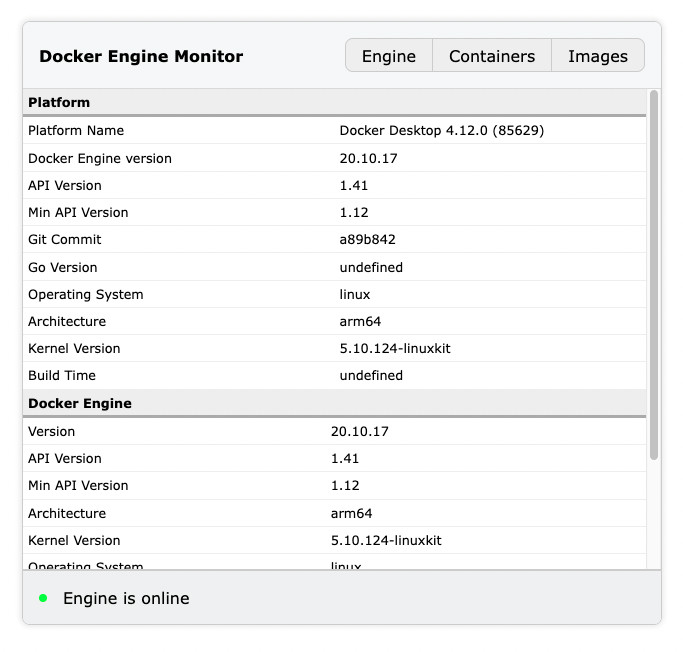
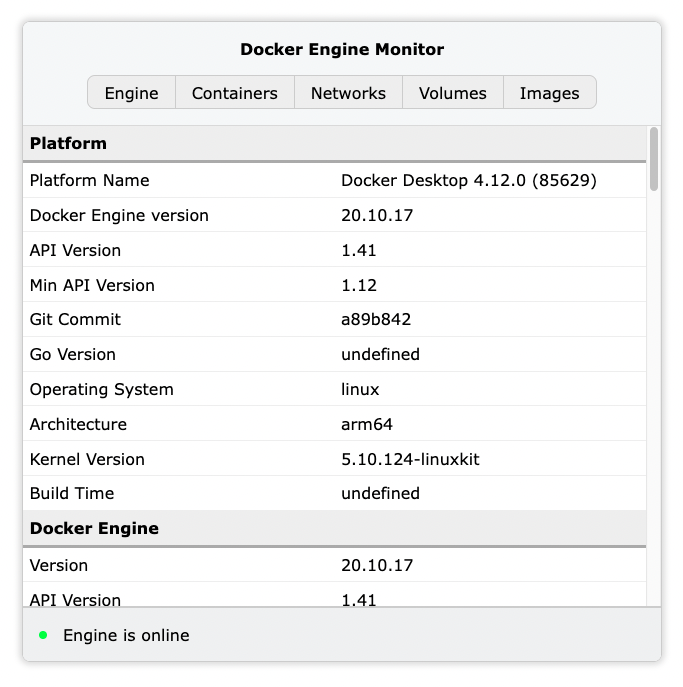
Add more info

Changed region(s): [[0.0307, 0.0307, 0.9839, 0.5828], [0.0307, 0.2761, 0.9839, 0.9816]]

diff --git a/src/components/Body.js b/src/components/Body.js
@@ -37,25 +37,126 @@ function Body() {
                 }
             } />
 
-        <LiveTable title="Docker Engine" ms={5 * 1000} check={
+            <LiveTable title="Docker Engine" ms={5 * 1000} check={
                 function(callback) {
-                    docker.version(
-                        result => 
-                            callback([
-                                [ 'Version'          , result['Components'][0]['Version'] ],
-                                [ 'API Version'      , result['Components'][0]['Details']['ApiVersion'] ],
-                                [ 'Min API Version'  , result['Components'][0]['Details']['MinAPIVersion'] ],
-                                [ 'Architecture'     , result['Components'][0]['Details']['Arch'] ],
-                                [ 'Kernel Version'   , result['Components'][0]['Details']['KernelVersion'] ],
-                                [ 'Operating System' , result['Components'][0]['Details']['Os'] ],
-                                [ 'Build Time'       , result['Components'][0]['Details']['BuildTime'] ],
-                                [ 'Experimental'     , result['Components'][0]['Details']['Experimental'] ],
-                                [ 'Git Commit'       , result['Components'][0]['Details']['GitCommit'] ],
-                                [ 'Go Version'       , result['Components'][0]['Details']['GoVersion'] ],
-                            ])
+                    docker.version(result => 
+                        callback([
+                            [ 'Version'          , result['Components'][0]['Version'] ],
+                            [ 'API Version'      , result['Components'][0]['Details']['ApiVersion'] ],
+                            [ 'Min API Version'  , result['Components'][0]['Details']['MinAPIVersion'] ],
+                            [ 'Architecture'     , result['Components'][0]['Details']['Arch'] ],
+                            [ 'Kernel Version'   , result['Components'][0]['Details']['KernelVersion'] ],
+                            [ 'Operating System' , result['Components'][0]['Details']['Os'] ],
+                            [ 'Build Time'       , result['Components'][0]['Details']['BuildTime'] ],
+                            [ 'Experimental'     , result['Components'][0]['Details']['Experimental'] ],
+                            [ 'Git Commit'       , result['Components'][0]['Details']['GitCommit'] ],
+                            [ 'Go Version'       , result['Components'][0]['Details']['GoVersion'] ],
+                        ])
                     );
                 }
             } />
+
+            <LiveTable title="containerd" ms={5 * 1000} check={
+                function(callback) {
+                    docker.version(result => 
+                        callback([
+                            [ 'Version'          , result['Components'][1]['Version'] ],
+                            [ 'Git Commit'       , result['Components'][1]['Details']['GitCommit'] ],
+                        ])
+                    );
+                }
+            } />
+
+            <LiveTable title="runc" ms={5 * 1000} check={
+                function(callback) {
+                    docker.version(result => 
+                        callback([
+                            [ 'Version'          , result['Components'][2]['Version'] ],
+                            [ 'Git Commit'       , result['Components'][2]['Details']['GitCommit'] ],
+                        ])
+                    );
+                }
+            } />
+
+            <LiveTable title="docker-init" ms={5 * 1000} check={
+                function(callback) {
+                    docker.version(result => 
+                        callback([
+                            [ 'Version'          , result['Components'][3]['Version'] ],
+                            [ 'Git Commit'       , result['Components'][3]['Details']['GitCommit'] ],
+                        ])
+                    );
+                }
+            } />
+            
+            <LiveTable title="Info" ms={5 * 1000} check={
+                function(callback) {
+                    docker.info(result => 
+                        callback([
+                            [ 'Driver Status'          , '►' ],
+                            [ 'Plugins'                , '►' ],
+                            [ 'Registry Config'        , '►' ],
+                            [ 'Runtimes'               , '►' ],
+                            [ 'Swarm'                  , '►' ],
+                            [ 'Containerd Commit'      , '►' ],
+                            [ 'Runc Commit'            , '►' ],
+                            [ 'Init Commit'            , '►' ],
+                            [ 'Security Options'       , '►' ],
+                            [ 'Labels'                 , '►' ],
+                            [ 'ID'                     , result['ID'] ],
+                            [ 'Warnings'               , result['Warnings'] ],
+                            [ 'Containers'             , result['Containers'] ],
+                            [ 'Containters Running'    , result['ContainersRunning'] ],
+                            [ 'Containers Paused'      , result['ContainersPaused'] ],
+                            [ 'Containers Stopped'     , result['ContainersStopped'] ]
+                            [ 'Images'                 , result['Images'] ],
+                            [ 'Driver'                 , result['Driver'] ],
+                            [ 'Memory Limit'           , result['MemoryLimit'] ],
+                            [ 'Swap Limit'             , result['SwapLimit'] ],
+                            [ 'Kernel Memory'          , result['KernelMemory'] ],
+                            [ 'Kernel Memory TCP'      , result['Kernel Memory TCP'] ],
+                            [ 'CPU CFS Period'         , result['CpuCfsPeriod'] ],
+                            [ 'CPU CFS Quota'          , result['CpuCfsQuota'] ],
+                            [ 'CPU Shares'             , result['CPUShares'] ],
+                            [ 'CPU Set'                , result['CPUSet'] ],
+                            [ 'PIDs Limit'             , result['PidsLimit'] ],
+                            [ 'IPv4 Forwarding'        , result['IPv4Forwarding'] ],
+                            [ 'Bridge NF IP Tables'    , result['BridgeNfIptables'] ],
+                            [ 'Bridge NF IPv6 Tables'  , result['BridgeNfIp6tables'] ],
+                            [ 'Debug'                  , result['Debug'] ],
+                            [ 'NFd'                    , result['NFd'] ],
+                            [ 'OOM Kill Disabled'      , result['OomKillDisable'] ],
+                            [ 'Go Routines'            , result['NGoroutines'] ],
+                            [ 'System Time'            , result['SystemTime'] ],
+                            [ 'Logging Driver'         , result['LoggingDriver'] ],
+                            [ 'cgroup Driver'          , result['CgroupDriver'] ],
+                            [ 'cgroup Version'         , result['CgroupVersion'] ],
+                            [ 'Event Listeners'        , result['NEventsListener'] ],
+                            [ 'Kernel Version'         , result['KernelVersion'] ],
+                            [ 'Operating System'       , result['OperatingSystem'] ],
+                            [ 'OS Version'             , result['OSVersion'] ],
+                            [ 'OS Type'                , result['OSType'] ],
+                            [ 'Architecture'           , result['Architecture'] ],
+                            [ 'Index Server Address'   , result['IndexServerAddress'] ],
+                            [ 'CPUs'                   , result['NCPU'] ],
+                            [ 'Total Memory'           , result['MemTotal'] ],
+                            [ 'Generic Resources'      , result['GenericResources'] ],
+                            [ 'Docker Root Directory'  , result['DockerRootDir'] ],
+                            [ 'HTTP Proxy'             , result['HttpProxy'] ],
+                            [ 'HTTPS Proxy'            , result['HttpsProxy'] ],
+                            [ 'No Proxy'               , result['NoProxy'] ],
+                            [ 'Name'                   , result['Name'] ],
+                            [ 'Experimental Build'     , result['ExperimentalBuild'] ],
+                            [ 'Server Version'         , result['ServerVersion'] ],
+                            [ 'Default Runtime'        , result['DefaultRuntime'] ],
+                            [ 'Live Restore Enabled'   , result['LiveRestoreEnabled'] ],
+                            [ 'Isolation'              , result['Isolation'] ],
+                            [ 'Init Binary'            , result['InitBinary'] ],
+                        ])
+                    );
+                }
+            } />
+
         </div>
     )
 }

diff --git a/src/css/Header.css b/src/css/Header.css
@@ -11,20 +11,21 @@
 
 .Header .layout-box {
     display: flex;
-    flex-direction: row;
+    flex-direction: column;
     align-items: center;
-    justify-content: space-between;
+    justify-content: center;
     width: 100%;
     height: 100%;
 }
 
 .Header h1 {
     font-size: 1em;
-    margin: 0;
+    margin: 0 0 1em 0;
     padding: 0;
 }
 
 .Header ul.tab-bar {
+    font-size: 1rem;
     display: flex;
     flex-direction: row;
     list-style: none;
@@ -43,6 +44,7 @@
     margin: 0;
     padding: 0.5em 1em;
     display: inline-block;
+    cursor: pointer;
 }
 
 .Header ul.tab-bar li:last-child {

diff --git a/src/components/Header.js b/src/components/Header.js
@@ -6,10 +6,11 @@ function Header() {
         <div className="Header">
             <div className="layout-box">
                 <h1>Docker Engine Monitor</h1>
-
                 <ul className="tab-bar">
                     <li>Engine</li>
                     <li>Containers</li>
+                    <li>Networks</li>
+                    <li>Volumes</li>
                     <li>Images</li>
                 </ul>
             </div>

diff --git a/src/components/Table.js b/src/components/Table.js
@@ -13,7 +13,7 @@ function Row(props) {
 
 function rowsArray(props) {
     const {rows} = props;
-    return rows?.map(entry => <Row key={entry[0]} entry={entry} />);
+    return rows?.map(entry => entry ? <Row key={entry[0]} entry={entry} /> : null);
 }
 
 function TBody(props) {

diff --git a/src/css/Table.css b/src/css/Table.css
@@ -1,7 +1,8 @@
 table {
+    table-layout: fixed;
     border-collapse: collapse;
     margin: 0;
-    font-size: 0.8rem;
+    font-size: 1rem;
     width: 100%;
     box-sizing: border-box;
 }

diff --git a/src/css/App.css b/src/css/App.css
@@ -7,7 +7,7 @@
     margin: auto;
     border-radius: 0.5em;
     overflow: hidden;
-    box-shadow: 0 0 0.2em 0.2em #eee;
+    box-shadow: 0 0 0.4em 0.2em #ddd;
 }
 
 .status-dot {
